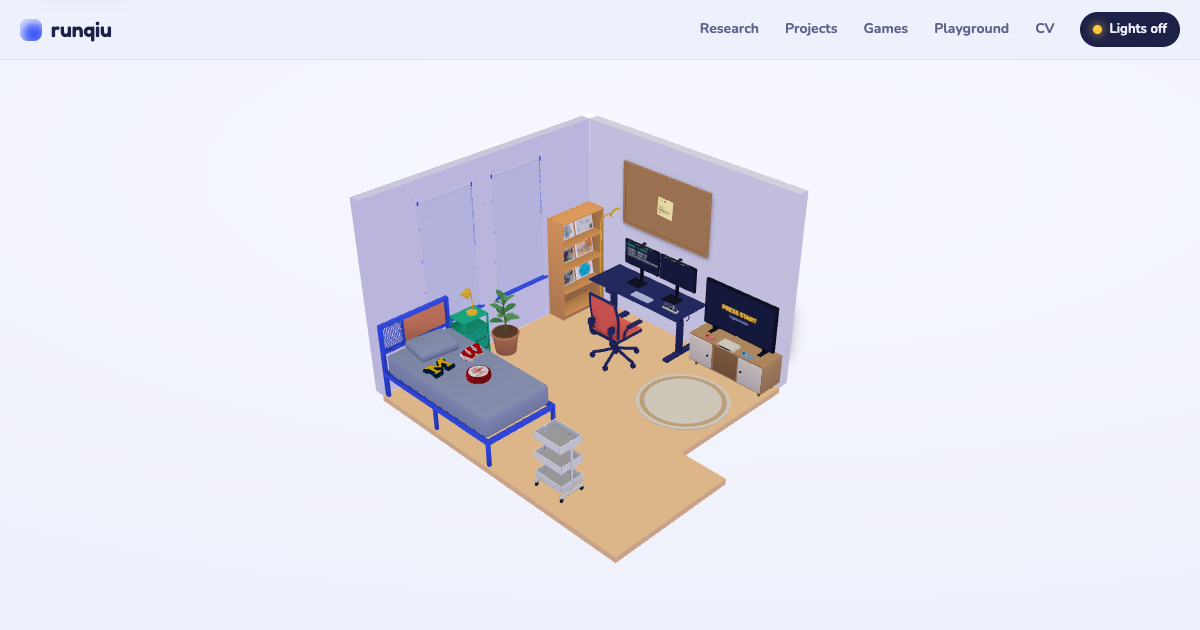
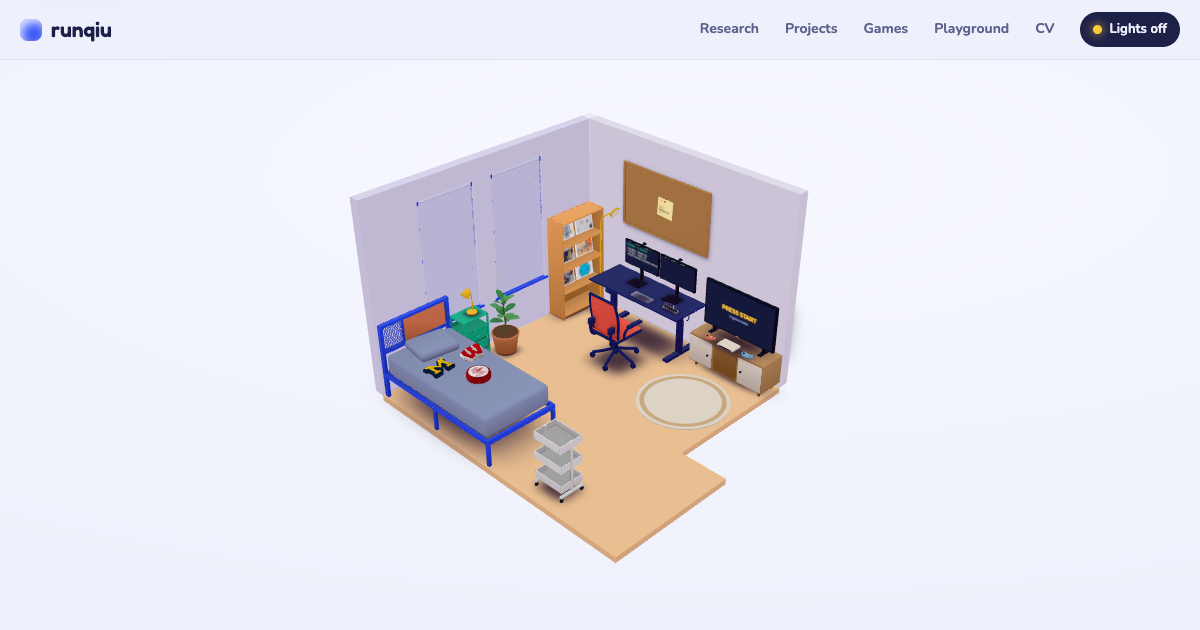
No contact shadows under the bed toys; re-render posters with the look pass
The look pass paints a fixed contact shadow under every floor object, and
the plushes are floor-mounted assets, so a patch would stay behind on the
bed once they're thrown. Posters and og.png re-rendered with the new light.

diff --git a/src/scripts/room.ts b/src/scripts/room.ts
@@ -595,7 +595,8 @@ export async function mountRoom(frame: HTMLElement, opts: RoomOptions) {
     const v = new Vector3();
     for (const p of PLACEMENTS) {
       const mount = manifest.assets[p.asset]?.mount;
-      if ((mount !== 'floor' && mount !== 'desk') || p.asset === 'rug' || !placed[p.id]) continue;
+      // Not the toys on the bed: they get thrown around, and a painted patch would stay behind.
+      if ((mount !== 'floor' && mount !== 'desk') || p.asset === 'rug' || DECOR.toys.includes(p.id) || !placed[p.id]) continue;
       const g = placed[p.id], base = new Box3().setFromObject(g).min.y, foot = new Box3();
       g.traverse((o) => {
         if (!(o instanceof Mesh)) return;
